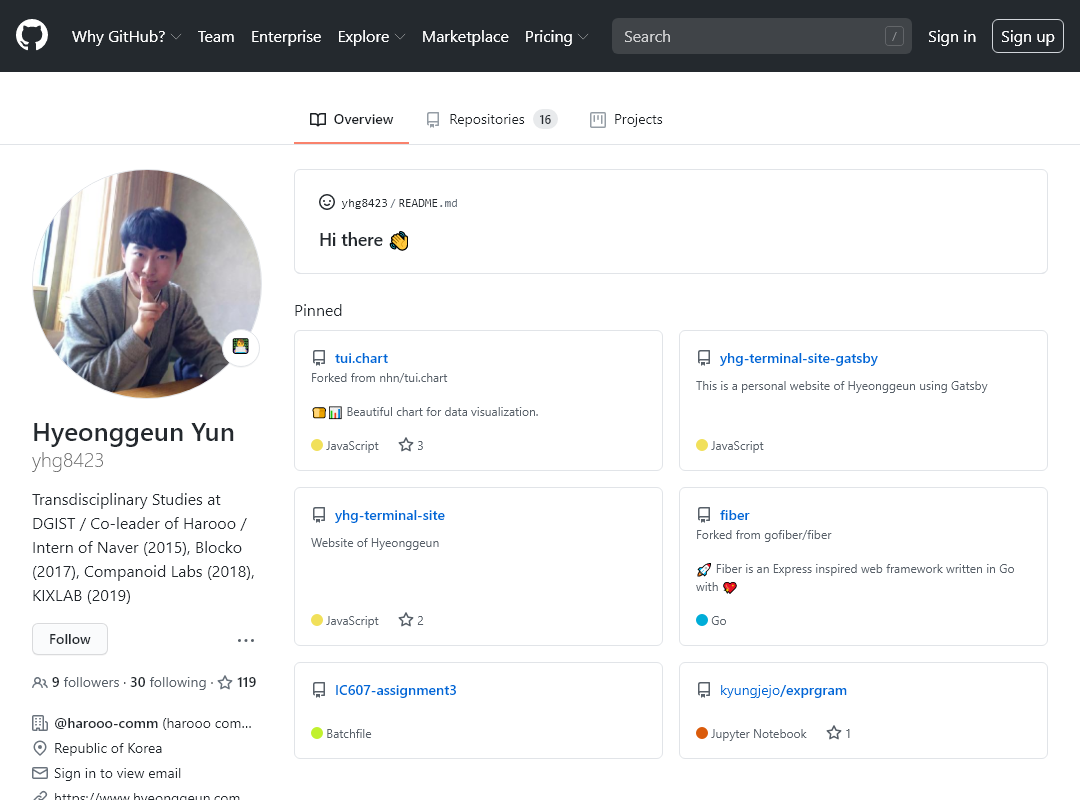
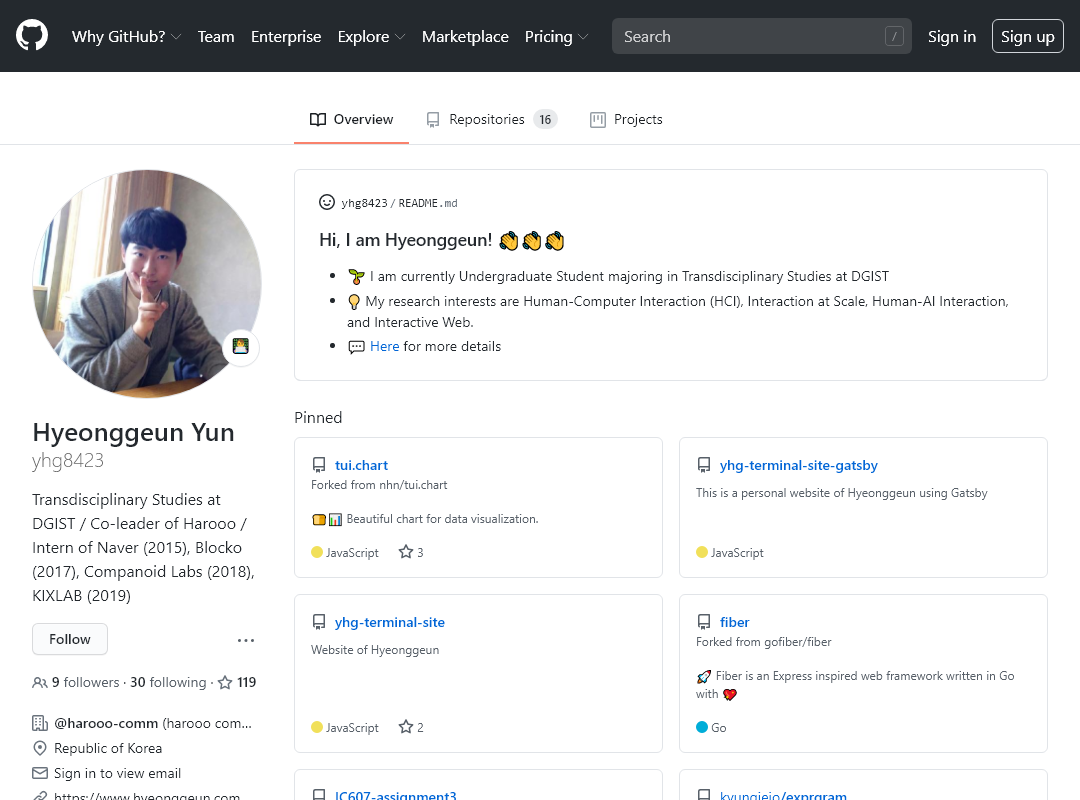
"adds new screenshot at depth 5"

diff --git a/README.md b/README.md
@@ -1,5 +1,1 @@
-### Hi, I am Hyeonggeun! 👋👋👋
-
-- 🌱 I am currently Undergraduate Student majoring in Transdisciplinary Studies at DGIST
-- 💡 My research interests are Human-Computer Interaction (HCI), Interaction at Scale, Human-AI Interaction, and Interactive Web.
-- 💬 [Here](https://www.hyeonggeun.com) for more details
+![Woah!](https://github.com/yhg8423/yhg8423/blob/master/screenshot-5.png)
